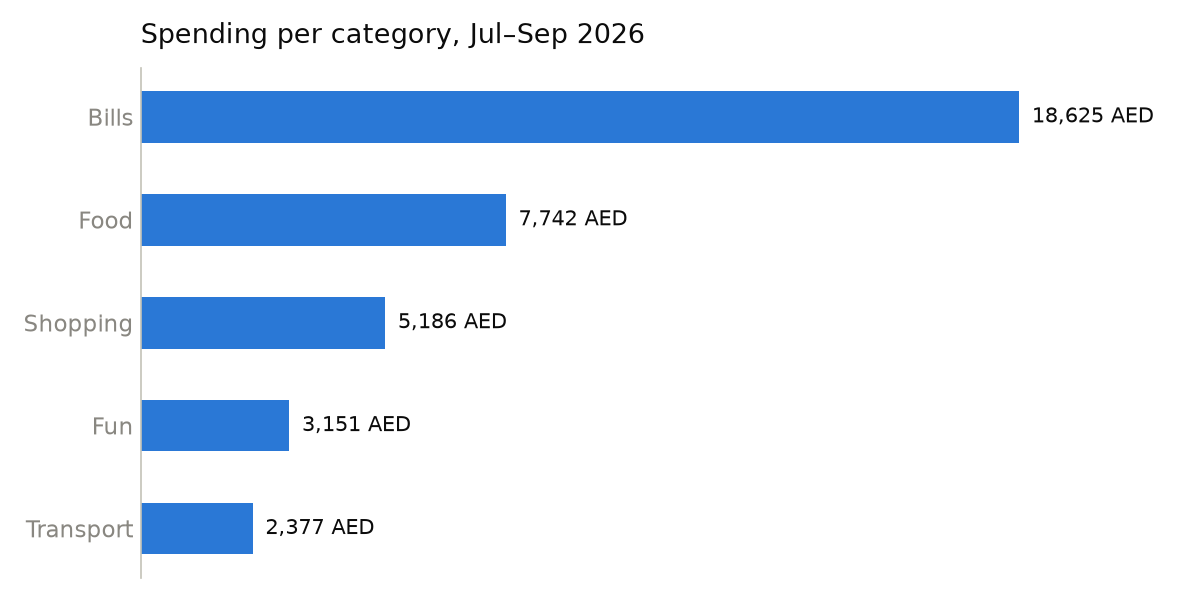
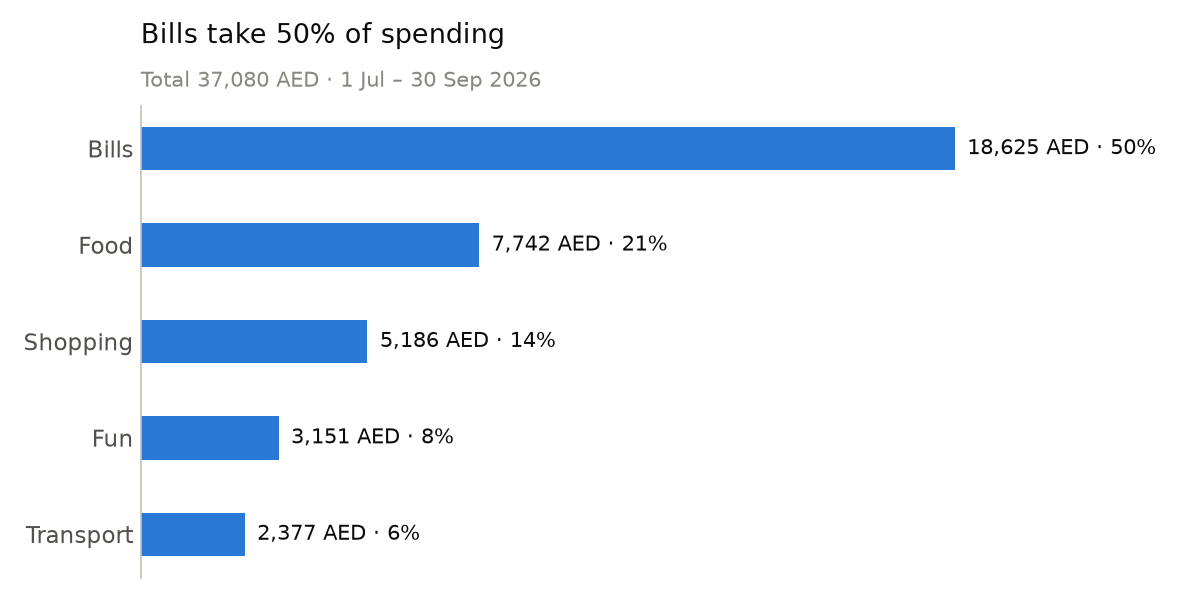
Make category chart show its takeaway
Label each bar with its share of total spend, use a title that states
the top category's share, and add a subtitle with the total and date
range. Darken the category labels and slim the bars for readability.

diff --git a/analyze.py b/analyze.py
@@ -12,6 +12,7 @@ CHART_FILE = "category_chart.png"
 # Chart colours: one blue for the bars, quiet greys for text and axes.
 BAR_COLOR = "#2a78d6"
 TEXT_COLOR = "#0b0b0b"
+LABEL_COLOR = "#52514e"
 MUTED_COLOR = "#898781"
 AXIS_COLOR = "#c3c2b7"
 
@@ -30,27 +31,41 @@ def average_per_day(df):
     return df["amount_aed"].sum() / days
 
 
-def save_category_chart(by_category, path):
-    """Save a horizontal bar chart of spend per category as a PNG image."""
+def save_category_chart(by_category, start, end, path):
+    """Save a horizontal bar chart of spend per category as a PNG image.
+
+    by_category must be sorted largest first; start and end are the
+    first and last dates in the data, shown in the subtitle.
+    """
+    total = by_category.sum()
+    shares = by_category / total  # each category's fraction of the total
+
     # Reverse so the biggest category is drawn at the top.
     data = by_category.iloc[::-1]
+    data_shares = shares.iloc[::-1]
 
     fig, ax = plt.subplots(figsize=(8, 4))
-    bars = ax.barh(data.index, data.values, height=0.5, color=BAR_COLOR)
+    bars = ax.barh(data.index, data.values, height=0.45, color=BAR_COLOR)
 
-    # Write each total just past the end of its bar.
-    ax.bar_label(bars, labels=[f"{v:,.0f} AED" for v in data.values],
-                 padding=6, color=TEXT_COLOR, fontsize=10)
+    # Write each total and its share just past the end of its bar.
+    labels = [f"{amount:,.0f} AED · {share:.0%}"
+              for amount, share in zip(data.values, data_shares.values)]
+    ax.bar_label(bars, labels=labels, padding=6, color=TEXT_COLOR, fontsize=10)
 
-    ax.set_title("Spending per category, Jul–Sep 2026",
-                 loc="left", fontsize=13, color=TEXT_COLOR, pad=12)
+    # Title states the takeaway; subtitle gives the context.
+    top_category = by_category.index[0]
+    ax.set_title(f"{top_category} take {shares.iloc[0]:.0%} of spending",
+                 loc="left", fontsize=13, color=TEXT_COLOR, pad=30)
+    period = f"{start.day} {start:%b} – {end.day} {end:%b %Y}"
+    ax.text(0, 1.04, f"Total {total:,.0f} AED · {period}",
+            transform=ax.transAxes, fontsize=10, color=MUTED_COLOR)
 
     # Keep the axes quiet so the bars stand out.
     ax.spines[["top", "right", "bottom"]].set_visible(False)
     ax.spines["left"].set_color(AXIS_COLOR)
     ax.xaxis.set_visible(False)
-    ax.tick_params(axis="y", length=0, labelcolor=MUTED_COLOR, labelsize=11)
-    ax.set_xlim(0, data.max() * 1.18)  # leave room for the labels
+    ax.tick_params(axis="y", length=0, labelcolor=LABEL_COLOR, labelsize=11)
+    ax.set_xlim(0, data.max() * 1.25)  # leave room for the labels
 
     fig.tight_layout()
     fig.savefig(path, dpi=150)
@@ -75,7 +90,7 @@ def main():
     print(f"  {biggest['amount_aed']:,.2f} AED - {biggest['description']} "
           f"({biggest['category']}, {biggest['date']:%d %b %Y})")
 
-    save_category_chart(by_category, CHART_FILE)
+    save_category_chart(by_category, df["date"].min(), df["date"].max(), CHART_FILE)
     print(f"\nChart saved to {CHART_FILE}")
 
 
